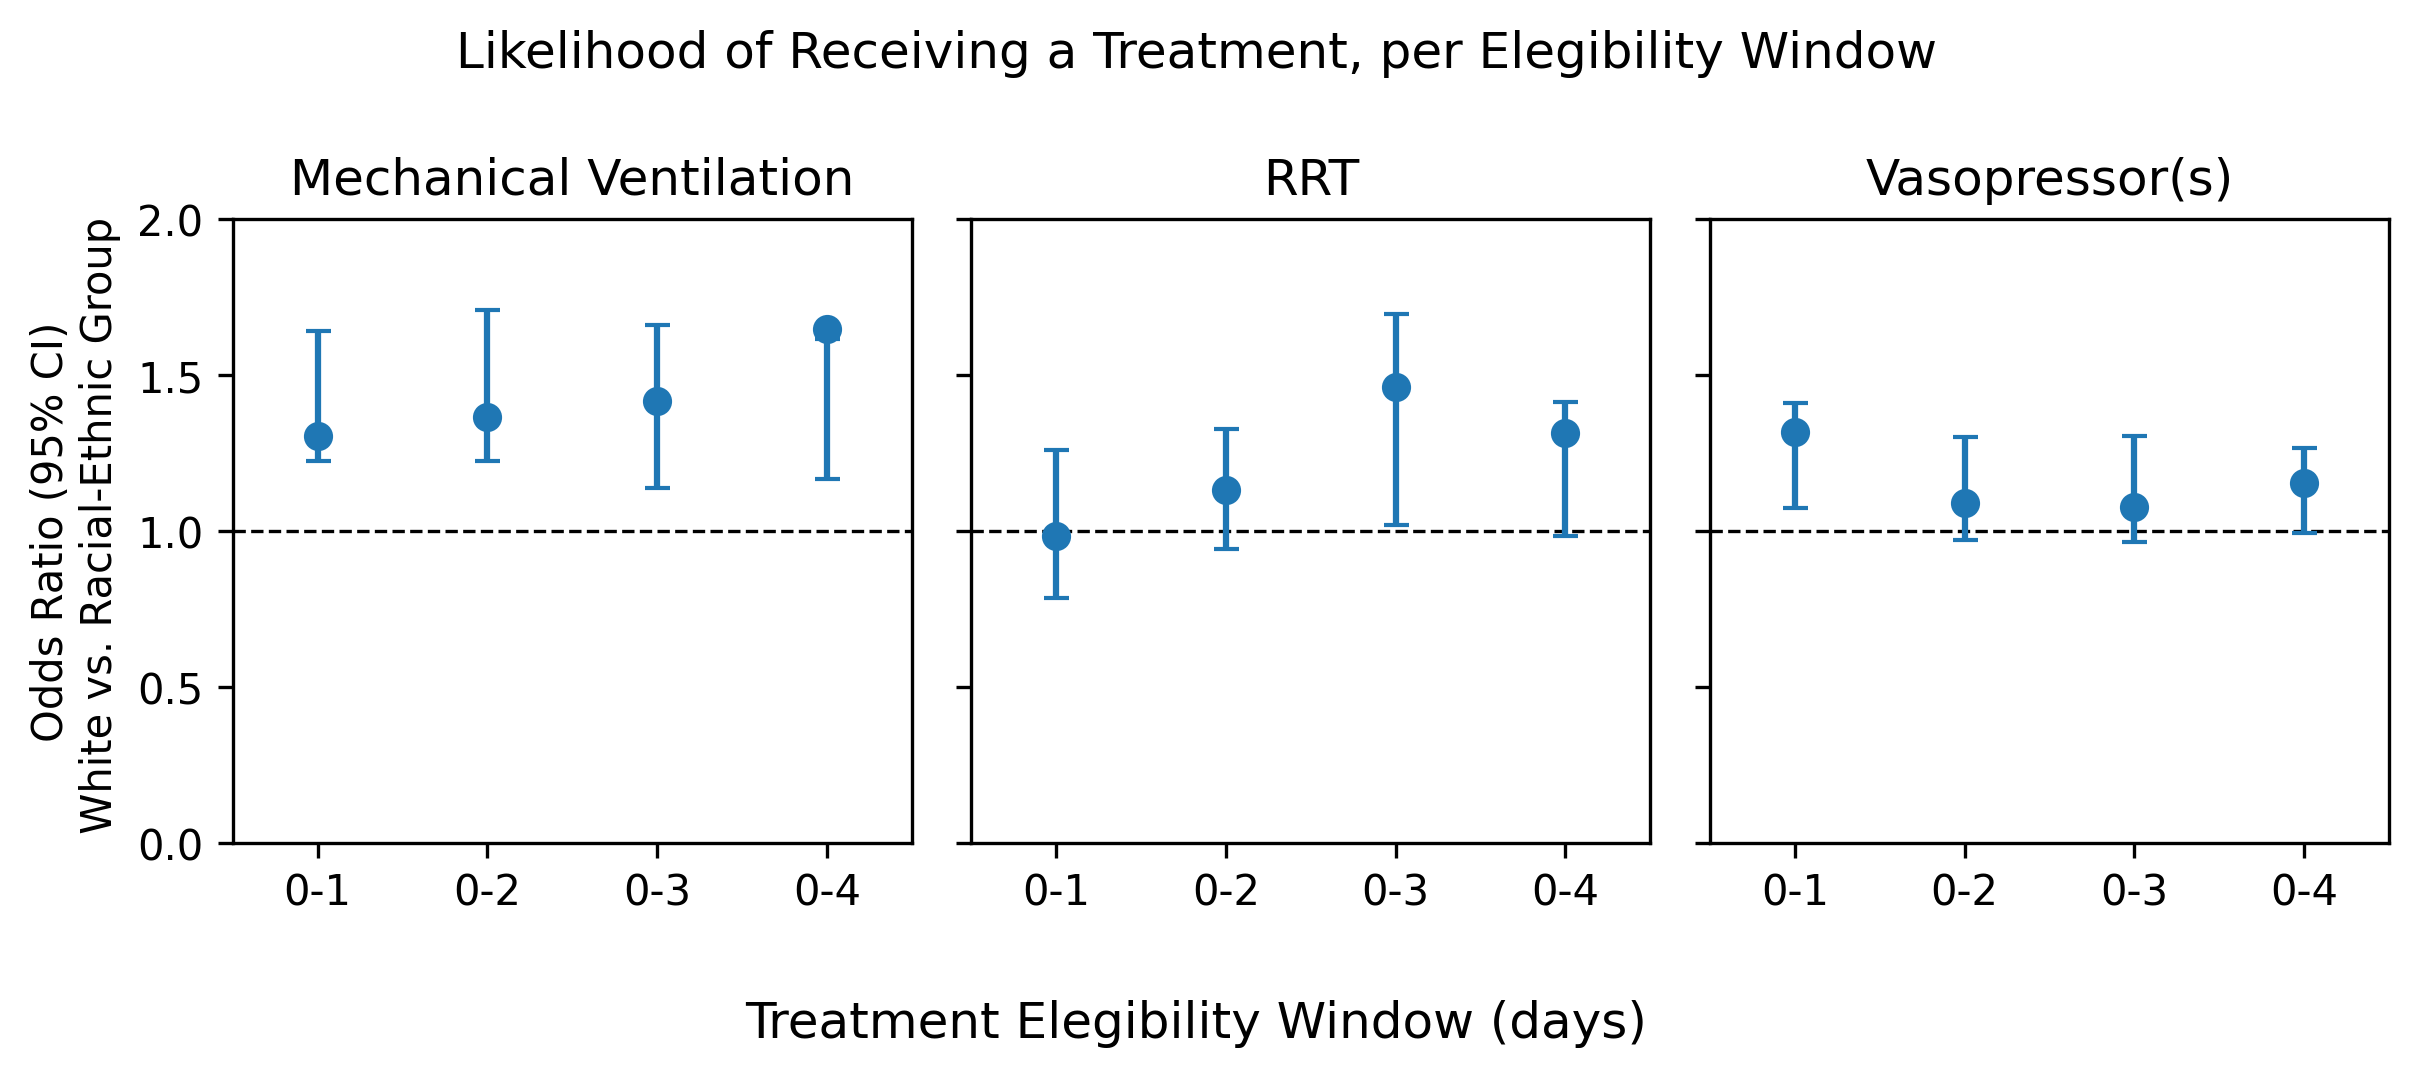
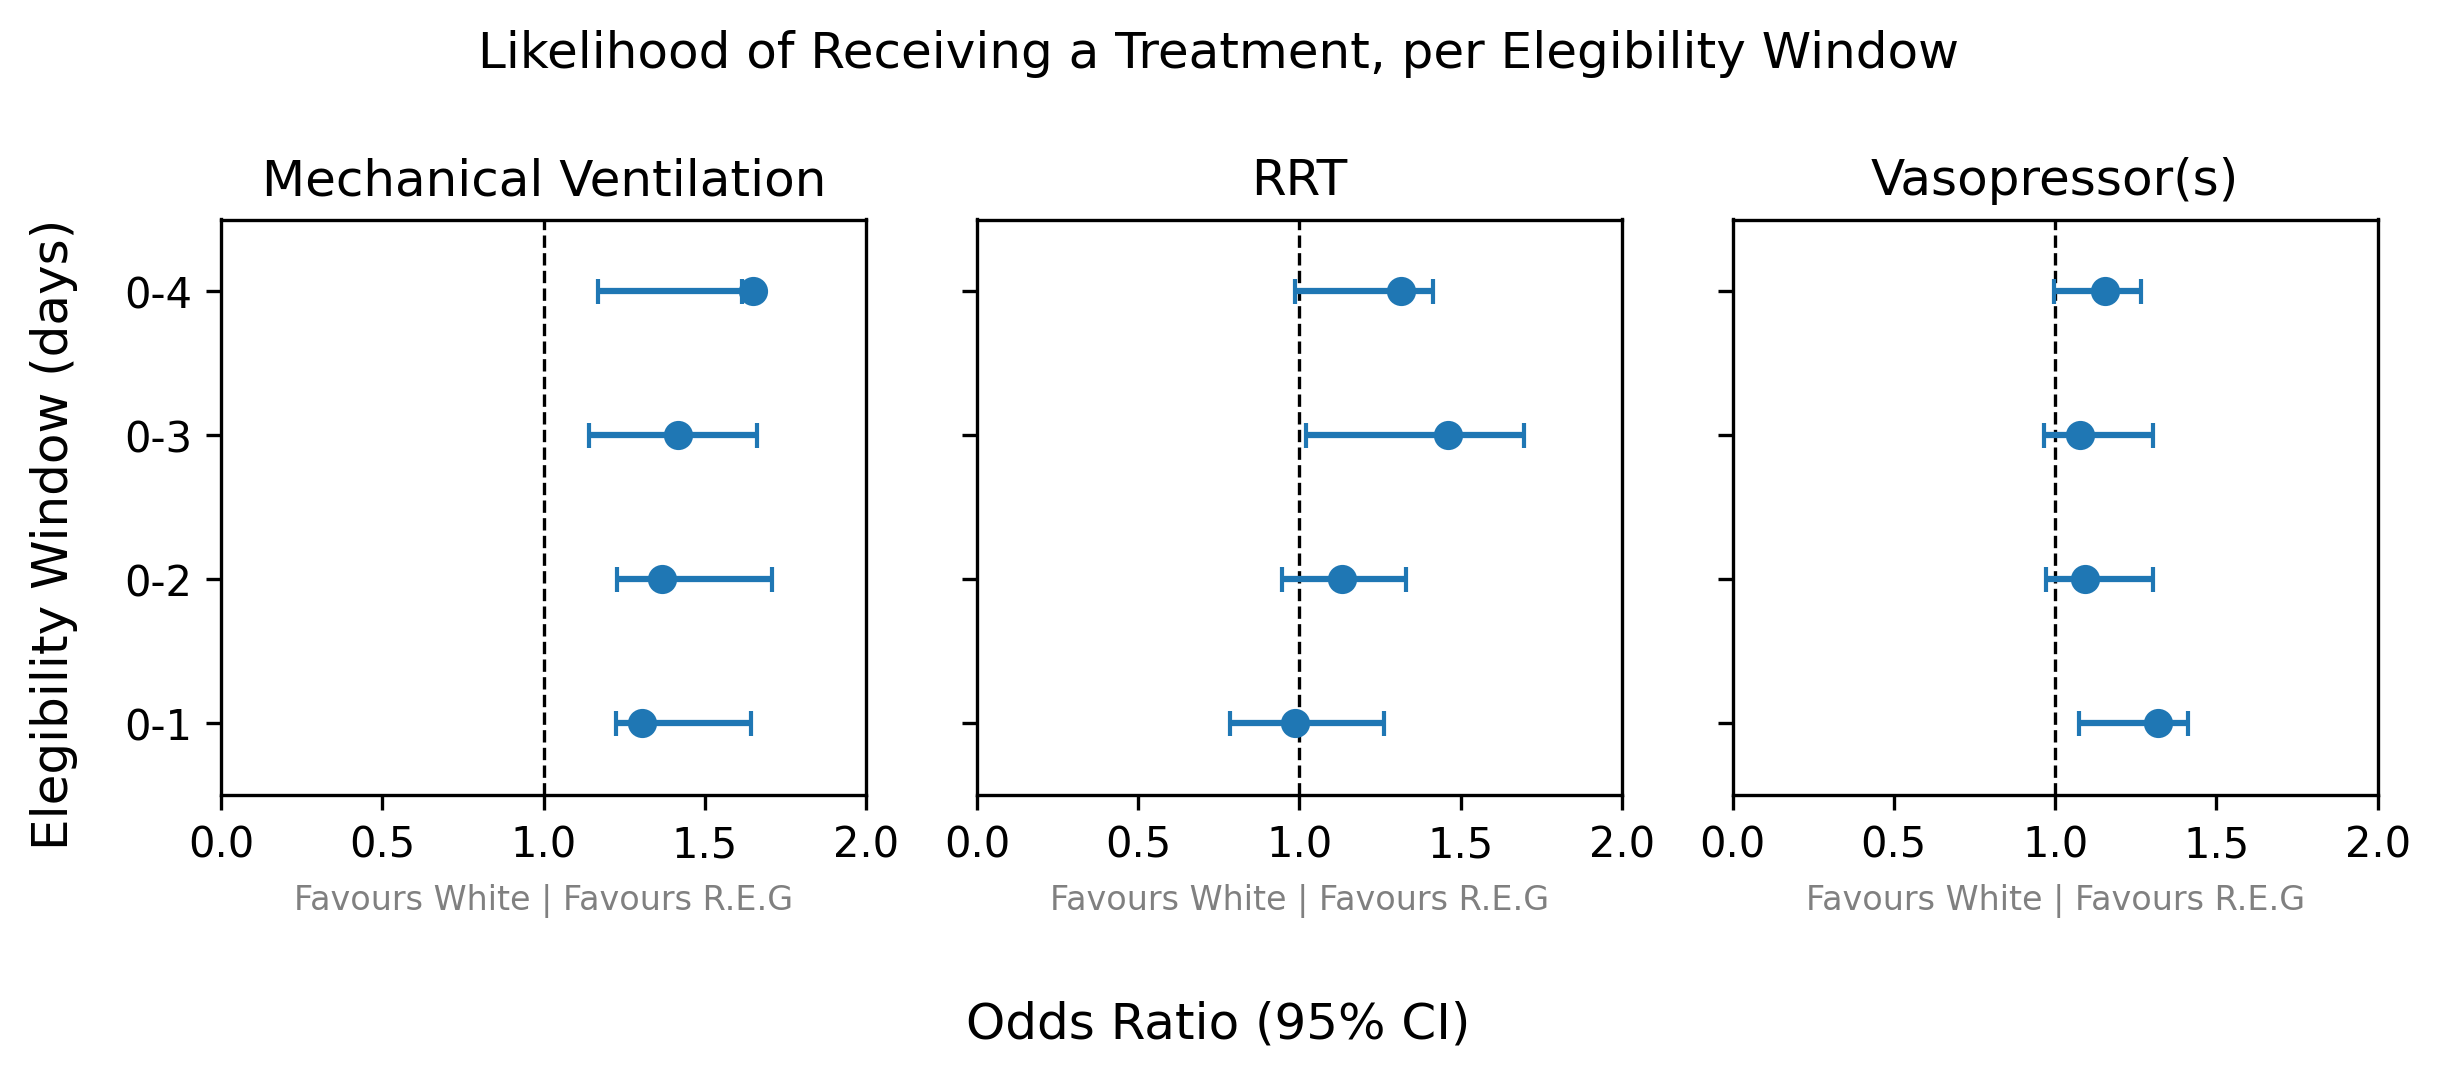
Add cross-validation based XGBoost ORs

diff --git a/src/models/xgb_cv_all_coh_races.py b/src/models/xgb_cv_all_coh_races.py
@@ -1,11 +1,11 @@
 import pandas as pd
 import numpy as np
-from sklearn.utils import resample
 import shap
 from tqdm import tqdm
 from xgboost import XGBClassifier
+from sklearn.model_selection import StratifiedKFold
 
-setting = "bs_all_coh"
+setting = "cv_all_coh_races"
 
 # function to calculate odds ratio
 def calc_OR(shap_values, data, feature):
@@ -21,7 +21,7 @@ with open("config/treatments.txt", "r") as f:
 treatments.remove("treatment")
 
 # read features from list in txt
-with open("config/confounders.txt", "r") as f:
+with open("config/confounders_races.txt", "r") as f:
     confounders = f.read().splitlines()
 confounders.remove("confounder")
 
@@ -29,7 +29,7 @@ confounders.remove("confounder")
 results_df = pd.DataFrame(columns=["cohort","race","treatment","OR","2.5%","97.5%"])
 
 cohorts = [1,2,3,4]
-races = ['race_white']
+races = ['race_black', 'race_hisp', 'race_asian']
 
 for cohort in cohorts:
     print(f"Cohort: {cohort}")
@@ -39,55 +39,61 @@ for cohort in cohorts:
         # load data
         data = pd.read_csv(f"data/clean/coh_{cohort}_{treatment[:-5]}.csv")
 
+        # append results to dataframe
+        results_df = results_df.append({"cohort": cohort,
+                                "race": "race_white",
+                                "treatment": treatment,
+                                "OR": 1,
+                                "2.5%": 1,
+                                "97.5%": 1}, ignore_index=True)
+
         for race in races:
             print(f"Race-Ethnicity: {race}")
 
             # append treatments that are not the current one to confounders
             # select X, y
-            conf = confounders + [t for t in treatments if t != treatment] 
+            conf = confounders + [t for t in treatments if t != treatment] + [race] 
 
             # compute OR based on all data
             X = data[conf]
             y = data[treatment]
+            r = data[race]
 
-            model = XGBClassifier()
-            model.fit(X, y)
-
-            # shap explainer
-            explainer = shap.TreeExplainer(model, X)
-            shap_values = explainer(X, check_additivity=False)
-
-            shap_values = pd.DataFrame(shap_values.values, columns=conf)
-
-            # calculate odds ratios
-            OR = calc_OR(shap_values, data, race)
-
-            n_rep = 20
+            n_rep = 10
             odds_ratios = []
 
+            # outer loop
             for i in tqdm(range(n_rep)):
 
-                # bootsrap the data
-                sample = resample(data, replace=True, n_samples=len(data)).reset_index(drop=True)
-                
-                X = sample[conf]
-                y = sample[treatment]
+                # list to append inner ORs
+                ORs = []
 
-                model = XGBClassifier()
-                model.fit(X, y)
+                # stratified k-fold cross validation
+                skf = StratifiedKFold(n_splits=5, shuffle=True, random_state=i)
 
-                # shap explainer
-                explainer = shap.TreeExplainer(model, X)
-                shap_values = explainer(X, check_additivity=False)
+                # inner loop, in each fold
+                for train_index, test_index in tqdm(skf.split(X, r)):
+                    X_train, X_test = X.iloc[train_index,:], X.iloc[test_index,:]
+                    y_train, y_test = y.iloc[train_index], y.iloc[test_index]
 
-                shap_values = pd.DataFrame(shap_values.values, columns=conf)
+                    model = XGBClassifier()
+                    model.fit(X_train, y_train)
 
-                # calculate odds ratios
-                odds_ratios.append(calc_OR(shap_values, sample, race))
+                    # shap explainer
+                    explainer = shap.TreeExplainer(model, X_train)
+                    shap_values = explainer(X_train, check_additivity=False)
 
+                    shap_values = pd.DataFrame(shap_values.values, columns=conf)
+
+                    # append OR to list
+                    ORs.append(calc_OR(shap_values, data, race))
+
+                # calculate odds ratio based on all 5 folds, append
+                odds_ratios.append(np.mean(ORs))
 
             # calculate confidence intervals
             CI_lower = np.percentile(odds_ratios, 2.5)
+            OR = np.percentile(odds_ratios, 50)
             CI_upper = np.percentile(odds_ratios, 97.5)
 
             print(f"OR (95% CI): {OR:.3f} ({CI_lower:.3f} - {CI_upper:.3f})")

diff --git a/src/models/xgb_cv_all_coh.py b/src/models/xgb_cv_all_coh.py
@@ -1,11 +1,11 @@
 import pandas as pd
 import numpy as np
-from sklearn.utils import resample
 import shap
 from tqdm import tqdm
 from xgboost import XGBClassifier
+from sklearn.model_selection import StratifiedKFold
 
-setting = "bs_all_coh"
+setting = "cv_all_coh"
 
 # function to calculate odds ratio
 def calc_OR(shap_values, data, feature):
@@ -29,7 +29,7 @@ confounders.remove("confounder")
 results_df = pd.DataFrame(columns=["cohort","race","treatment","OR","2.5%","97.5%"])
 
 cohorts = [1,2,3,4]
-races = ['race_white']
+races = ['race_nonwhite']
 
 for cohort in cohorts:
     print(f"Cohort: {cohort}")
@@ -49,45 +49,46 @@ for cohort in cohorts:
             # compute OR based on all data
             X = data[conf]
             y = data[treatment]
+            r = data[race]
 
-            model = XGBClassifier()
-            model.fit(X, y)
-
-            # shap explainer
-            explainer = shap.TreeExplainer(model, X)
-            shap_values = explainer(X, check_additivity=False)
-
-            shap_values = pd.DataFrame(shap_values.values, columns=conf)
-
-            # calculate odds ratios
-            OR = calc_OR(shap_values, data, race)
-
-            n_rep = 20
+            n_rep = 10
             odds_ratios = []
 
+            # outer loop
             for i in tqdm(range(n_rep)):
 
-                # bootsrap the data
-                sample = resample(data, replace=True, n_samples=len(data)).reset_index(drop=True)
-                
-                X = sample[conf]
-                y = sample[treatment]
+                # list to append inner ORs
+                ORs = []
 
-                model = XGBClassifier()
-                model.fit(X, y)
+                # stratified k-fold cross validation
+                skf = StratifiedKFold(n_splits=5, shuffle=True, random_state=i)
 
-                # shap explainer
-                explainer = shap.TreeExplainer(model, X)
-                shap_values = explainer(X, check_additivity=False)
+                # inner loop, in each fold
+                for train_index, test_index in tqdm(skf.split(X, r)):
+                    X_train, X_test = X.iloc[train_index,:], X.iloc[test_index,:]
+                    y_train, y_test = y.iloc[train_index], y.iloc[test_index]
 
-                shap_values = pd.DataFrame(shap_values.values, columns=conf)
+                    model = XGBClassifier()
+                    model.fit(X_train, y_train)
 
-                # calculate odds ratios
-                odds_ratios.append(calc_OR(shap_values, sample, race))
+                    # shap explainer
+                    explainer = shap.TreeExplainer(model, X_train)
+                    shap_values = explainer(X_train, check_additivity=False)
 
+                    shap_values = pd.DataFrame(shap_values.values, columns=conf)
+
+                    OR_inner = calc_OR(shap_values, data, race)
+                    # append OR to list
+                    ORs.append(OR_inner)
+
+                    print(f"OR: {OR_inner:.5f}")
+
+                # calculate odds ratio based on all 5 folds, append
+                odds_ratios.append(np.mean(ORs))
 
             # calculate confidence intervals
             CI_lower = np.percentile(odds_ratios, 2.5)
+            OR = np.percentile(odds_ratios, 50)
             CI_upper = np.percentile(odds_ratios, 97.5)
 
             print(f"OR (95% CI): {OR:.3f} ({CI_lower:.3f} - {CI_upper:.3f})")

diff --git a/src/plots/plot_logistic.py b/src/plots/plot_logistic.py
@@ -20,7 +20,7 @@ fig, axes = plt.subplots(1, 3,
                          figsize=(8.25,3.5))
 
 fig.suptitle('Likelihood of Receiving a Treatment, per Elegibility Window')
-axes[0].set_ylabel("Odds Ratio (95% CI)\n White vs. Racial-Ethnic Group")
+
 
 # create dictionary of name for each treatment group
 treatment_names = {"MV_elig": "Mechanical Ventilation",
@@ -30,27 +30,30 @@ treatment_names = {"MV_elig": "Mechanical Ventilation",
 
 # set common horizontal line at 1 for all subplots
 for ax in axes:
-    ax.axhline(y=1, linewidth=0.8, linestyle='--', color='black')
+    ax.axvline(x=1, linewidth=0.8, linestyle='--', color='black')
 
 # loop over treatment groups and create a subplot for each
 for (treatment, group), ax in zip(treatment_groups, axes):
     # plot odds ratios with confidence intervals as error bars
-    ax.errorbar(group["cohort"],
-                group["OR"],
-                yerr=[group["OR"] - group["2.5%"], group["97.5%"] - group["OR"]],
+    ax.errorbar(y=group["cohort"],
+                x=group["OR"],
+                xerr=[group["OR"] - group["2.5%"], group["97.5%"] - group["OR"]],
                 fmt='o',
                 capsize=3)
     # set subplot title
     ax.set_title([treatment_names[treatment]][0])
-    # set xrange to breath a bit
-    ax.set_xlim([.5, 4.5])
-    # set yrange to
-    ax.set_ylim([0, 2])
-    # set xticks in string format
-    ax.set_xticks([1,2,3,4])
-    ax.set_xticklabels(["0-1", "0-2", "0-3", "0-4"])
+    # set yrange to breath a bit
+    ax.set_ylim([.5, 4.5])
+    # set xrange to
+    ax.set_xlim([0, 2])
+    # set yticks in string format
+    ax.set_yticks([1,2,3,4])
+    ax.set_yticklabels(["0-1", "0-2", "0-3", "0-4"])
+    
+    ax.set_xlabel("Favours White | Favours R.E.G", fontsize=8, color='gray')
 
-fig.supxlabel('Treatment Elegibility Window (days)')
+fig.supxlabel("Odds Ratio (95% CI)")
+fig.supylabel('Elegibility Window (days)')
 plt.tight_layout()
 
 # Save the figure

diff --git a/src/3_clean_data_1coh.py b/src/3_clean_data_1coh.py
@@ -121,8 +121,8 @@ def clean_data(day, hr_bound, treatment):
     for col in com_cols:
         data[col] = data[col].apply(lambda x: 0 if x != 1 else 1)
 
-    # encode race_white into dummy
-    data['race_white'] =  data['race_white'].apply(lambda x: 1 if x == "White" else 0)
+    # encode race_nonwhite into dummy
+    data['race_nonwhite'] =  data['race_white'].apply(lambda x: 0 if x == "White" else 1)
 
     # encode racial-ethnic group into dummy, with white as reference
     race_vars = ['race_black', 'race_hisp', 'race_asian', 'race_other']
@@ -141,7 +141,7 @@ def clean_data(day, hr_bound, treatment):
 
     data = data[
                 ['admission_age', 'sex_female',  'eng_prof', 'private_insurance'] + \
-                ['race_white', 'race_black', 'race_hisp', 'race_asian', 'race_other'] + \
+                ['race_nonwhite', 'race_black', 'race_hisp', 'race_asian', 'race_other'] + \
                 ['anchor_year_group', 'adm_elective', 'major_surgery'] + \
                 ['charlson_comorbidity_index'] + \
                 ['SOFA_admit', 'respiratory_admit', 'coagulation_admit','cardiovascular_admit',

diff --git a/src/3_clean_data_4coh.py b/src/3_clean_data_4coh.py
@@ -116,8 +116,8 @@ def clean_data(cohort_number, treatment):
     for col in com_cols:
         data[col] = data[col].apply(lambda x: 0 if x != 1 else 1)
 
-    # encode race_white into dummy
-    data['race_white'] =  data['race_white'].apply(lambda x: 1 if x == "White" else 0)
+    # encode race_nonwhite into dummy
+    data['race_nonwhite'] =  data['race_white'].apply(lambda x: 0 if x == "White" else 1)
 
     # encode racial-ethnic group into dummy, with white as reference
     race_vars = ['race_black', 'race_hisp', 'race_asian', 'race_other']
@@ -136,7 +136,7 @@ def clean_data(cohort_number, treatment):
 
     data = data[
                 ['admission_age', 'sex_female',  'eng_prof', 'private_insurance'] + \
-                ['race_white', 'race_black', 'race_hisp', 'race_asian', 'race_other'] + \
+                ['race_nonwhite', 'race_black', 'race_hisp', 'race_asian', 'race_other'] + \
                 ['anchor_year_group', 'adm_elective', 'major_surgery'] + \
                 ['charlson_comorbidity_index'] + \
                 ['SOFA_admit', 'respiratory_admit', 'coagulation_admit','cardiovascular_admit',
